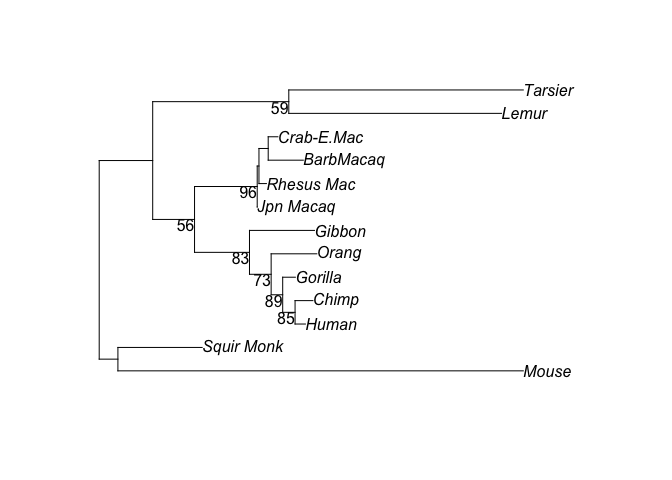
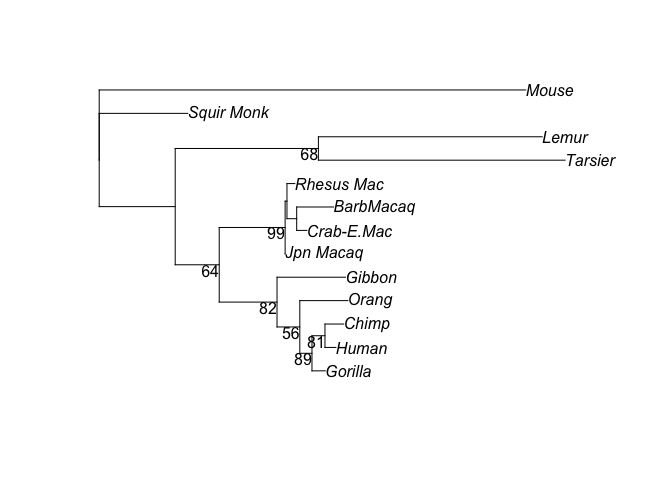
root the tree

Changed region(s): [[0.125, 0.2812, 0.9062, 0.8125], [0.125, 0.1562, 0.875, 0.25], [0.2188, 0.3125, 0.25, 0.3438]]

diff --git a/Lab1.md b/Lab1.md
@@ -140,6 +140,8 @@ scores, which tree should be the maximum parsimony tree? Why?
     fitHKY <- optim.pml(fitStart, model="HKY", optGamma=TRUE, rearrangement="stochastic")
     bs <- bootstrap.pml(fitHKY, bs=100, optNni=TRUE, multicore=TRUE)
 
-    plotBS(midpoint(fitHKY$tree), bs, type="phylogram")
+    # is.rooted(fitHKY$tree) # FALSE
+    rt <- root(fitHKY$tree, outgroup = "Mouse", resolve.root = TRUE)
+    plotBS(rt, bs, type="phylogram")
 
 ![](Lab1_files/figure-markdown_strict/unnamed-chunk-13-1.png)
